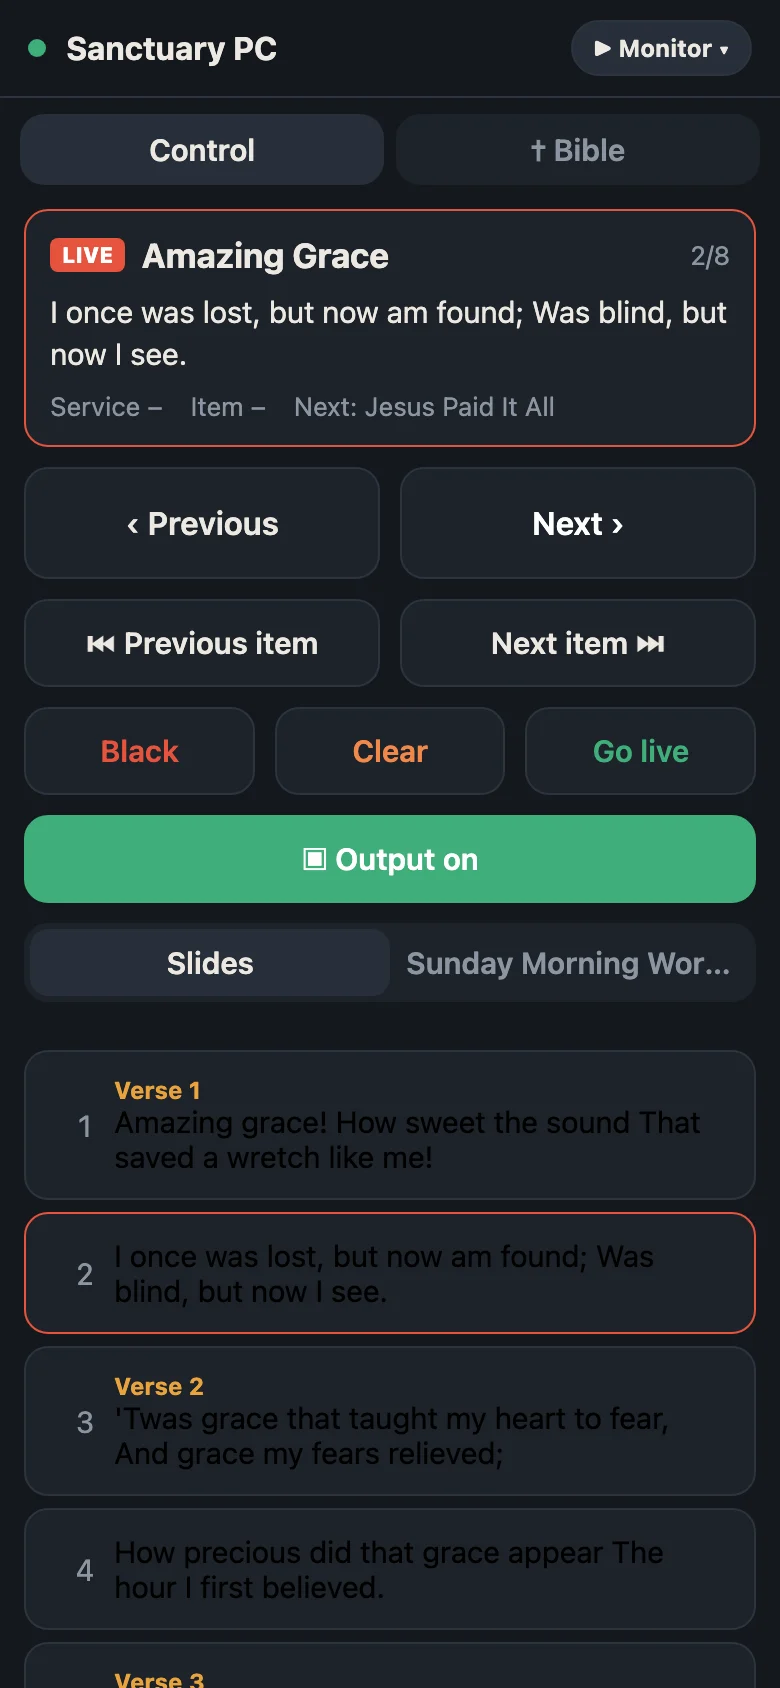
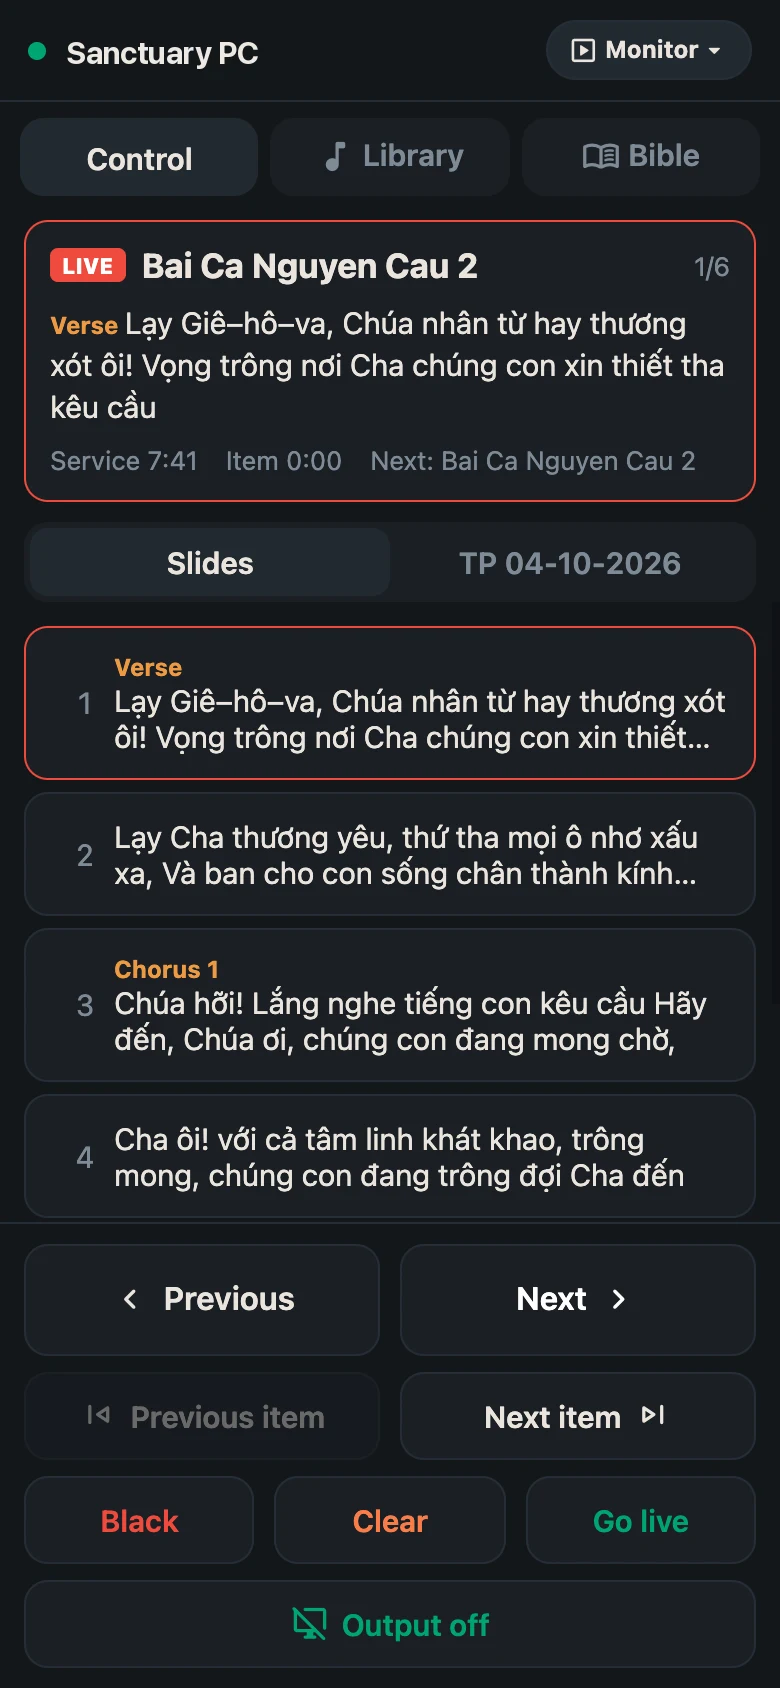
Refresh the phone remote screenshots
Recapture the Monitor and Musician phone shots from the current remote
(the Monitor now has a Library tab for quick-select; the Musician shows
a live chord sheet with transpose and resize). Update the alt text.

diff --git a/index.html b/index.html
@@ -228,11 +228,11 @@
       </div>
       <div class="phones">
         <figure>
-          <img src="assets/screenshot-monitor.webp" width="780" height="1688" loading="lazy" alt="The Monitor remote on a phone: Amazing Grace live, Previous and Next buttons, Black, Clear and the slide list.">
+          <img src="assets/screenshot-monitor.webp" width="780" height="1688" loading="lazy" alt="The Monitor remote on a phone: the live song and its slides, Previous and Next, Black, Clear and Go live, and a Library tab to quick-select from the library.">
           <figcaption>Monitor</figcaption>
         </figure>
         <figure>
-          <img src="assets/screenshot-musician.webp" width="780" height="1688" loading="lazy" alt="The Musician remote on a phone: the chord sheet of Amazing Grace in G, with the live lines highlighted.">
+          <img src="assets/screenshot-musician.webp" width="780" height="1688" loading="lazy" alt="The Musician remote on a phone: the live song's chord sheet with chords above the lyrics, the live lines highlighted, and transpose and text-size controls.">
           <figcaption>Musician</figcaption>
         </figure>
       </div>
